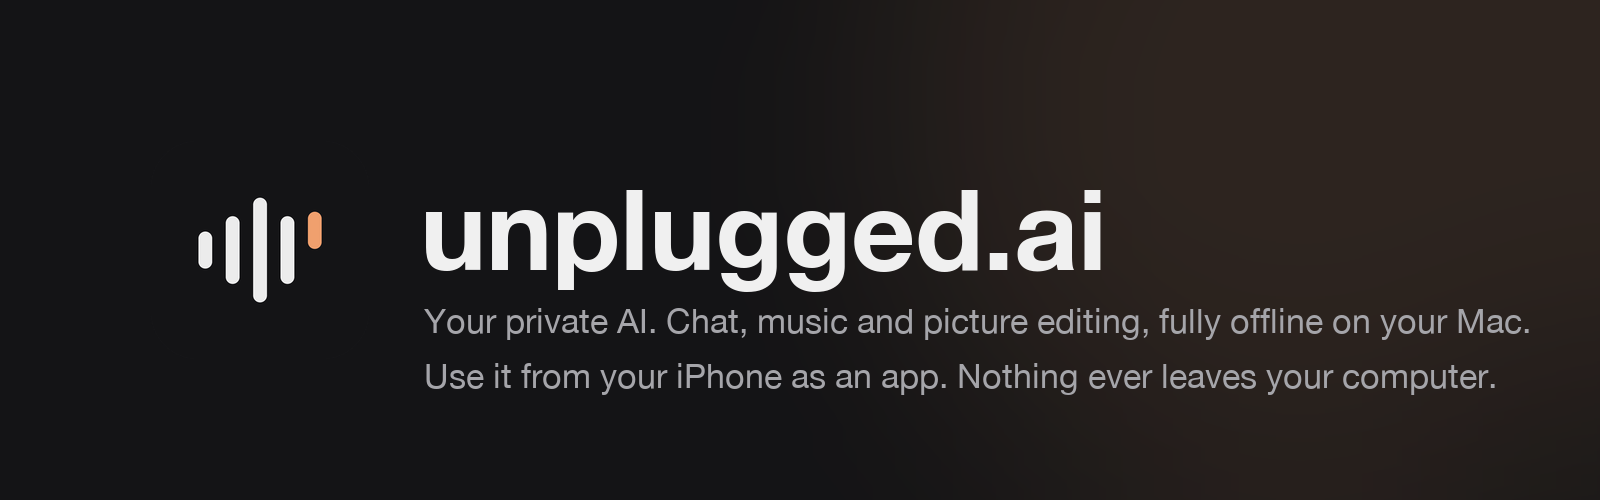
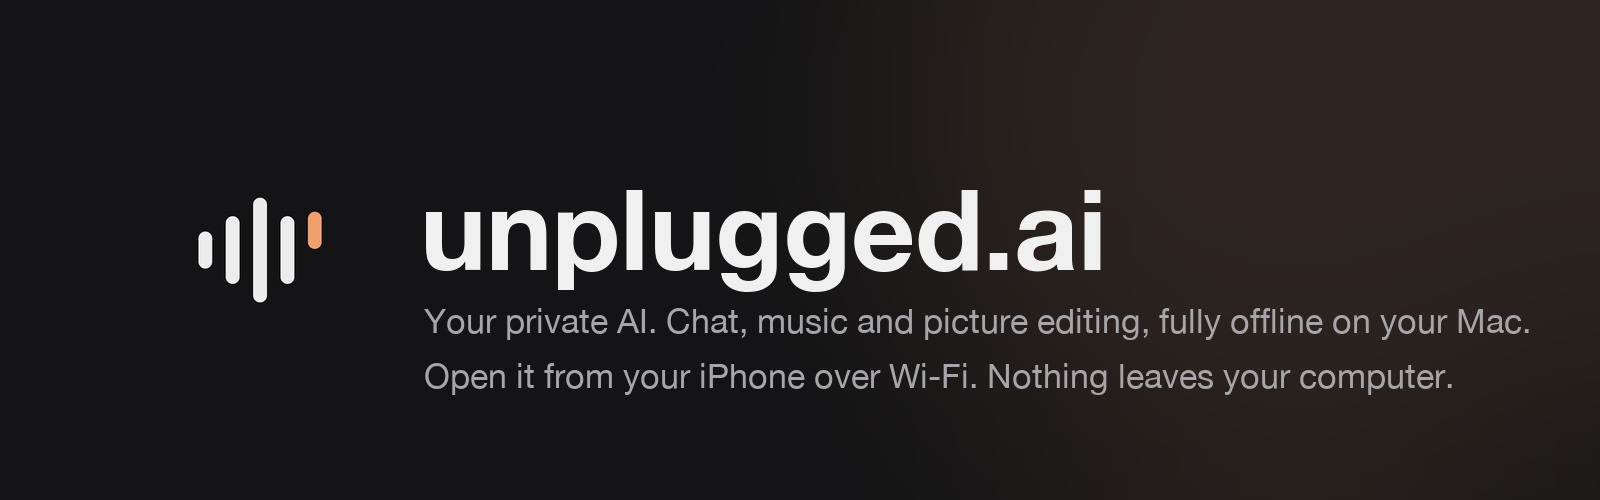
README: remove claims that are not verified (fine-tuned models, iPhone install, 16 GB)

Changed region(s): [[0.25, 0.72, 0.9375, 0.78]]

diff --git a/README.md b/README.md
@@ -3,13 +3,13 @@
 <p align="center">
 <b>Your own private AI that runs entirely on your Mac.</b><br>
 Chat with a local language model, write piano + electric guitar music with a model you train yourself,<br>
-and edit pictures with FLUX Kontext. Open it from your iPhone as an app. Nothing ever leaves your computer.
+and edit pictures with FLUX Kontext. Open it from your iPhone over Wi-Fi. Nothing ever leaves your computer.
 </p>
 
 <p align="center">
 <img alt="runs offline" src="https://img.shields.io/badge/runs-100%25%20offline-2ea44f">
 <img alt="platform" src="https://img.shields.io/badge/platform-macOS%20Apple%20Silicon-lightgrey">
-<img alt="pwa" src="https://img.shields.io/badge/iPhone-installable%20PWA-blue">
+<img alt="pwa" src="https://img.shields.io/badge/iPhone-web%20app%20(untested%20on%20device)-blue">
 <img alt="license" src="https://img.shields.io/badge/license-MIT-orange">
 </p>
 
@@ -19,12 +19,12 @@ and edit pictures with FLUX Kontext. Open it from your iPhone as an app. Nothing
 
 | | |
 |---|---|
-| **Chat** | A chatbot interface on our own fine-tuned models: **stereo 2** (stronger reasoning, based on `gpt-oss:20b`) and **mono 2** (quicker and simpler, based on `qwen3:14b`). |
+| **Chat** | A chatbot interface with two models: **stereo 2** (the stronger reasoning model, `gpt-oss:20b`) and **mono 2** (the lighter model, `qwen3:14b`). Both are the original Ollama models under app names; fine-tuned versions are planned and not available yet. Reasoning effort switch, tool calling, markdown, chat history, incognito chats. |
 | **Music** | A 35M-parameter GPT you train on MIDI. It writes piano and clean/driven electric guitar together trained on a broad mix of piano and guitar music. Piano roll, in-browser preview, MIDI download. |
 | **Pictures** | FLUX.1 Kontext [dev] picture editing with live preview, automatic quality choice, LoRA support, before/after slider. Drop a picture into the chat, say what to change, done. |
 | **Console** | A live log of everything the models are doing. |
 | **Accounts** | Per-user history and settings, guest mode that deletes everything when you leave, incognito chats. |
-| **iPhone app** | Installable PWA with offline shell. Your Mac does the computing, the phone is the screen. |
+| **iPhone** | Use it from the phone's browser; the Mac does the computing. Home-screen install and the offline shell are built but **not yet tested on a real iPhone**. |
 
 <p align="center">
 <img src="docs/img/desktop-chat.png" width="49%" alt="Chat">
@@ -46,7 +46,7 @@ and edit pictures with FLUX Kontext. Open it from your iPhone as an app. Nothing
 
 ## Requirements
 
-* A Mac with **Apple Silicon**. Developed on an M5 Pro with 24 GB. 16 GB works for chat with `mono`; picture editing and `stereo` want 24 GB or more.
+* A Mac with **Apple Silicon**. Developed and tested only on an M5 Pro with 24 GB. Other configurations are untested.
 * macOS, **Homebrew**, **Python 3.11** and **Python 3.12**, **Ollama**, **git**.
 * About **80 GB** of free disk: models (~25 GB), picture model download + 8-bit copy (~50 GB while converting), music training data (~2 GB).
 * A free Hugging Face account (to accept the FLUX.1 Kontext license). The FLUX license is **non-commercial**.
@@ -129,6 +129,8 @@ Open **http://127.0.0.1:8000**. Create an account (the first thing you see is th
 ---
 
 ## Use it from your iPhone
+
+> Status: the page is reachable from a phone on the same network (tested). The HTTPS certificate steps, Add to Home Screen and the offline shell are implemented but have **not been tested on a real iPhone yet**; expect to debug.
 
 Your Mac does all the work; the phone is just a window. Both must be on the same Wi-Fi (or on the same VPN, for example [Tailscale](https://tailscale.com), if you want it away from home).
 
